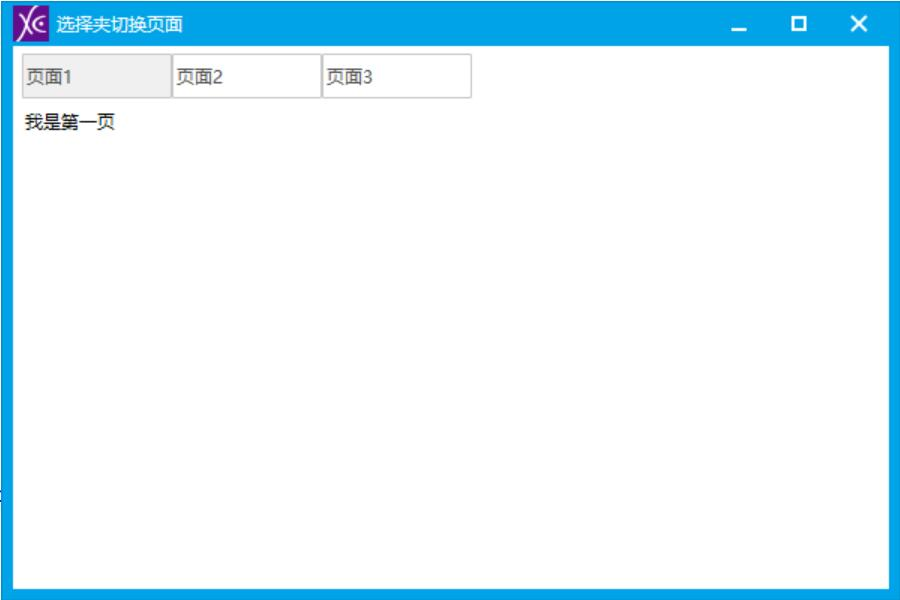
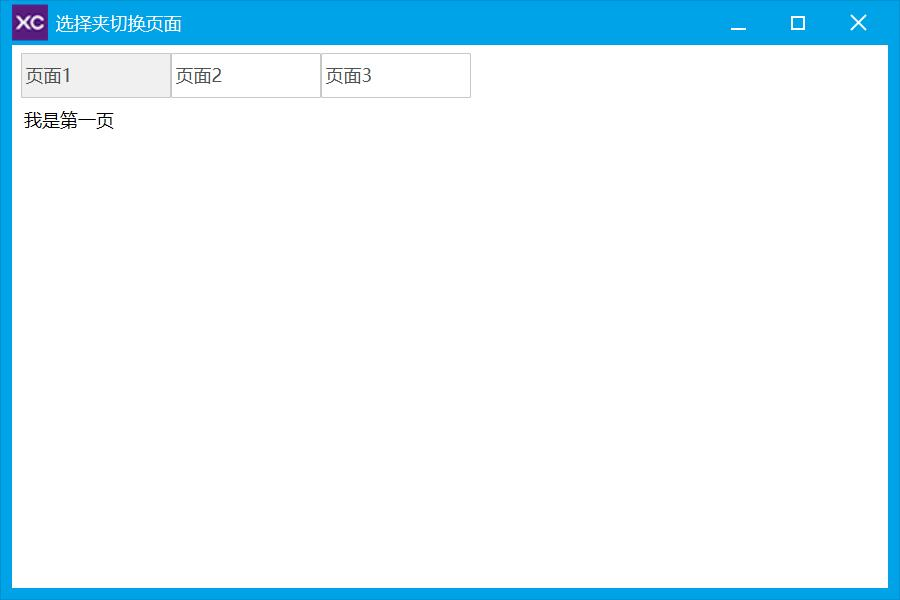
选择夹

Changed region(s): [[0.0, 0.0, 1.0, 1.0]]

diff --git a/TabControl/TabControl.go b/TabControl/TabControl.go
@@ -25,6 +25,8 @@ var (
 
 func main() {
 	a = app.New(true)
+	a.EnableDPI(true)
+	a.EnableAutoDPI(true)
 	w = window.New(0, 0, 600, 400, "选择夹切换页面", 0, xcc.Window_Style_Default)
 
 	// 我是喜欢创建一个水平布局元素, tab按钮都放在里面
@@ -57,7 +59,7 @@ func main() {
 	layoutPage2.Show(false)
 	layoutPage3.Show(false)
 
-	// 给按钮绑定页面
+	// 给按钮绑定页面, 绑定后切换页面的原理就是: 你点哪个按钮就显示哪个页面
 	tabBtn1.SetBindEle(layoutPage1.Handle)
 	tabBtn2.SetBindEle(layoutPage2.Handle)
 	tabBtn3.SetBindEle(layoutPage3.Handle)
